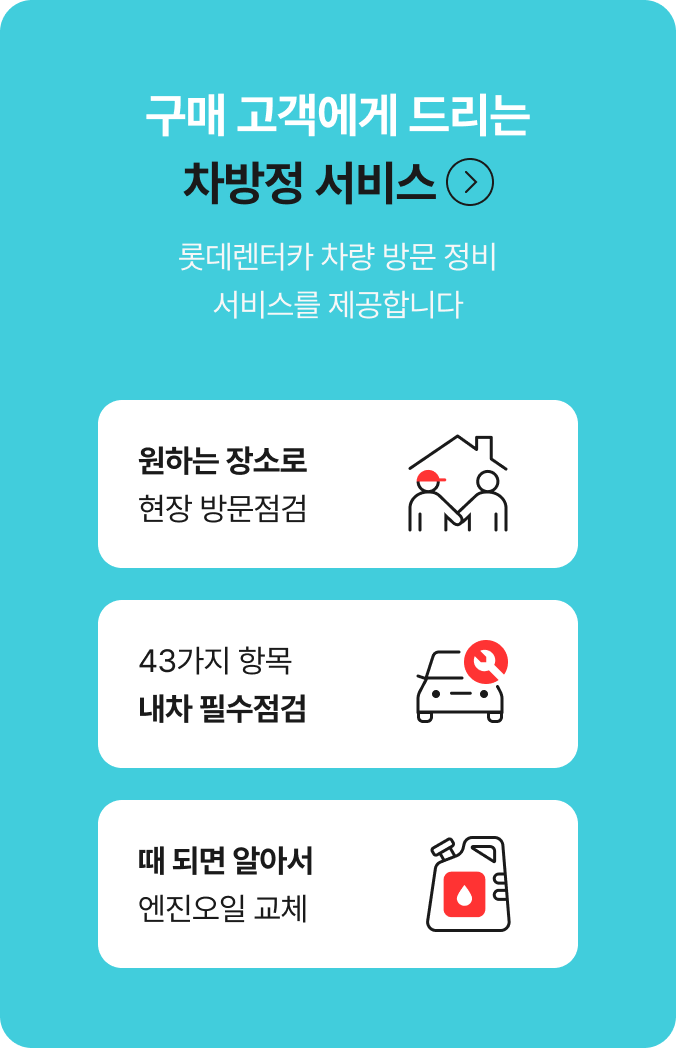
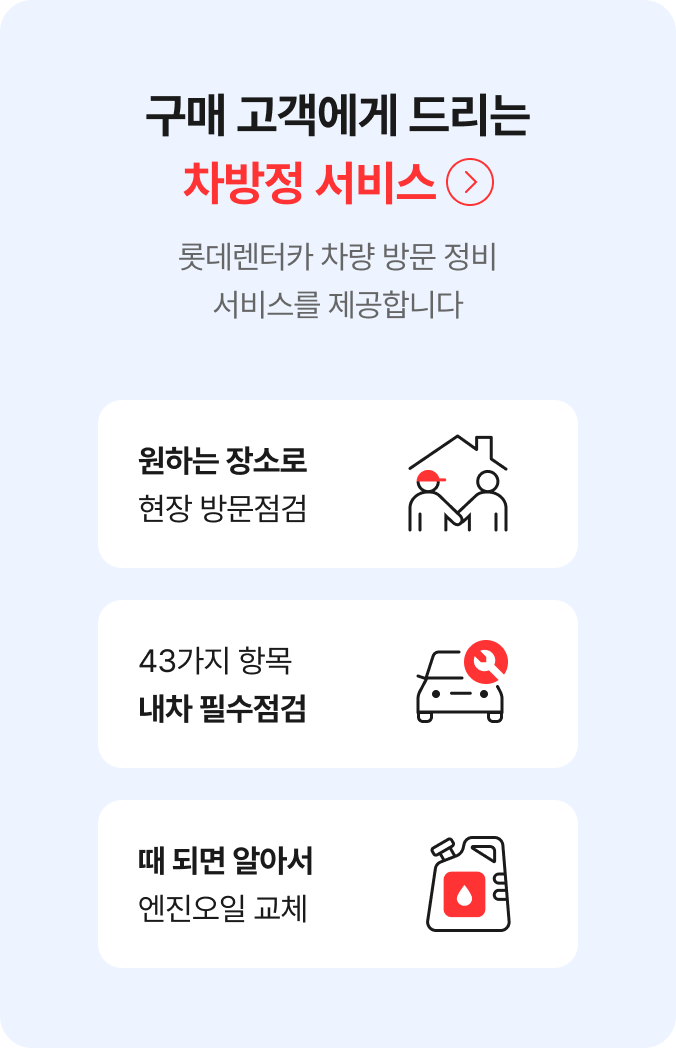
test

diff --git a/pc/main.html b/pc/main.html
@@ -236,7 +236,7 @@
 					});
 				
 				}
-				setTimeout(visualStep1, 2000);
+				setTimeout(visualStep1, 1000);
 				setTimeout(visualStep2, 3000);
 
 				setTimeout(visualStep3, 4000);
@@ -1856,12 +1856,12 @@
 		</div>
 .
 		<div class="quickBan">	
-			<div class="quickList">
+			<div class="quickList active">
 				<a href="javascript:;" class="btnQuickCar"><span class="num">119</span>최근본차량</a>
 				<a href="javascript:;" class="btnQuickFav">관심차량</a>
 				<a href="javascript:;" class="btnQuickPrice">견적보관함</a>
 			</div>
-			<button type="button" class="btnQuick">퀵메뉴</button>
+			<button type="button" class="btnQuick active">퀵메뉴</button>
 			<button type="button" class="btnTop">TOP</button>
 		</div>
 

diff --git a/pc/css/renew.css b/pc/css/renew.css
@@ -23,7 +23,7 @@ html, body, h1, h2, h3, h4, h5, h6, input, select, textarea, button, a{font-fami
 .layout--header-new .sub-menu li a:hover{background:#F5F7FA;border-radius:10px;}
 
 /* 비쥬얼 */
-.mainCon1{background:#FFC85A;}
+.mainCon1{background:#333;}
 .mainCon2{position:relative;z-index:5;background:#fff;}
 .mainCon3{position:relative;z-index:10;background:#fff;} 
 .mainVisualBx{position:relative;min-width:1200px; }
